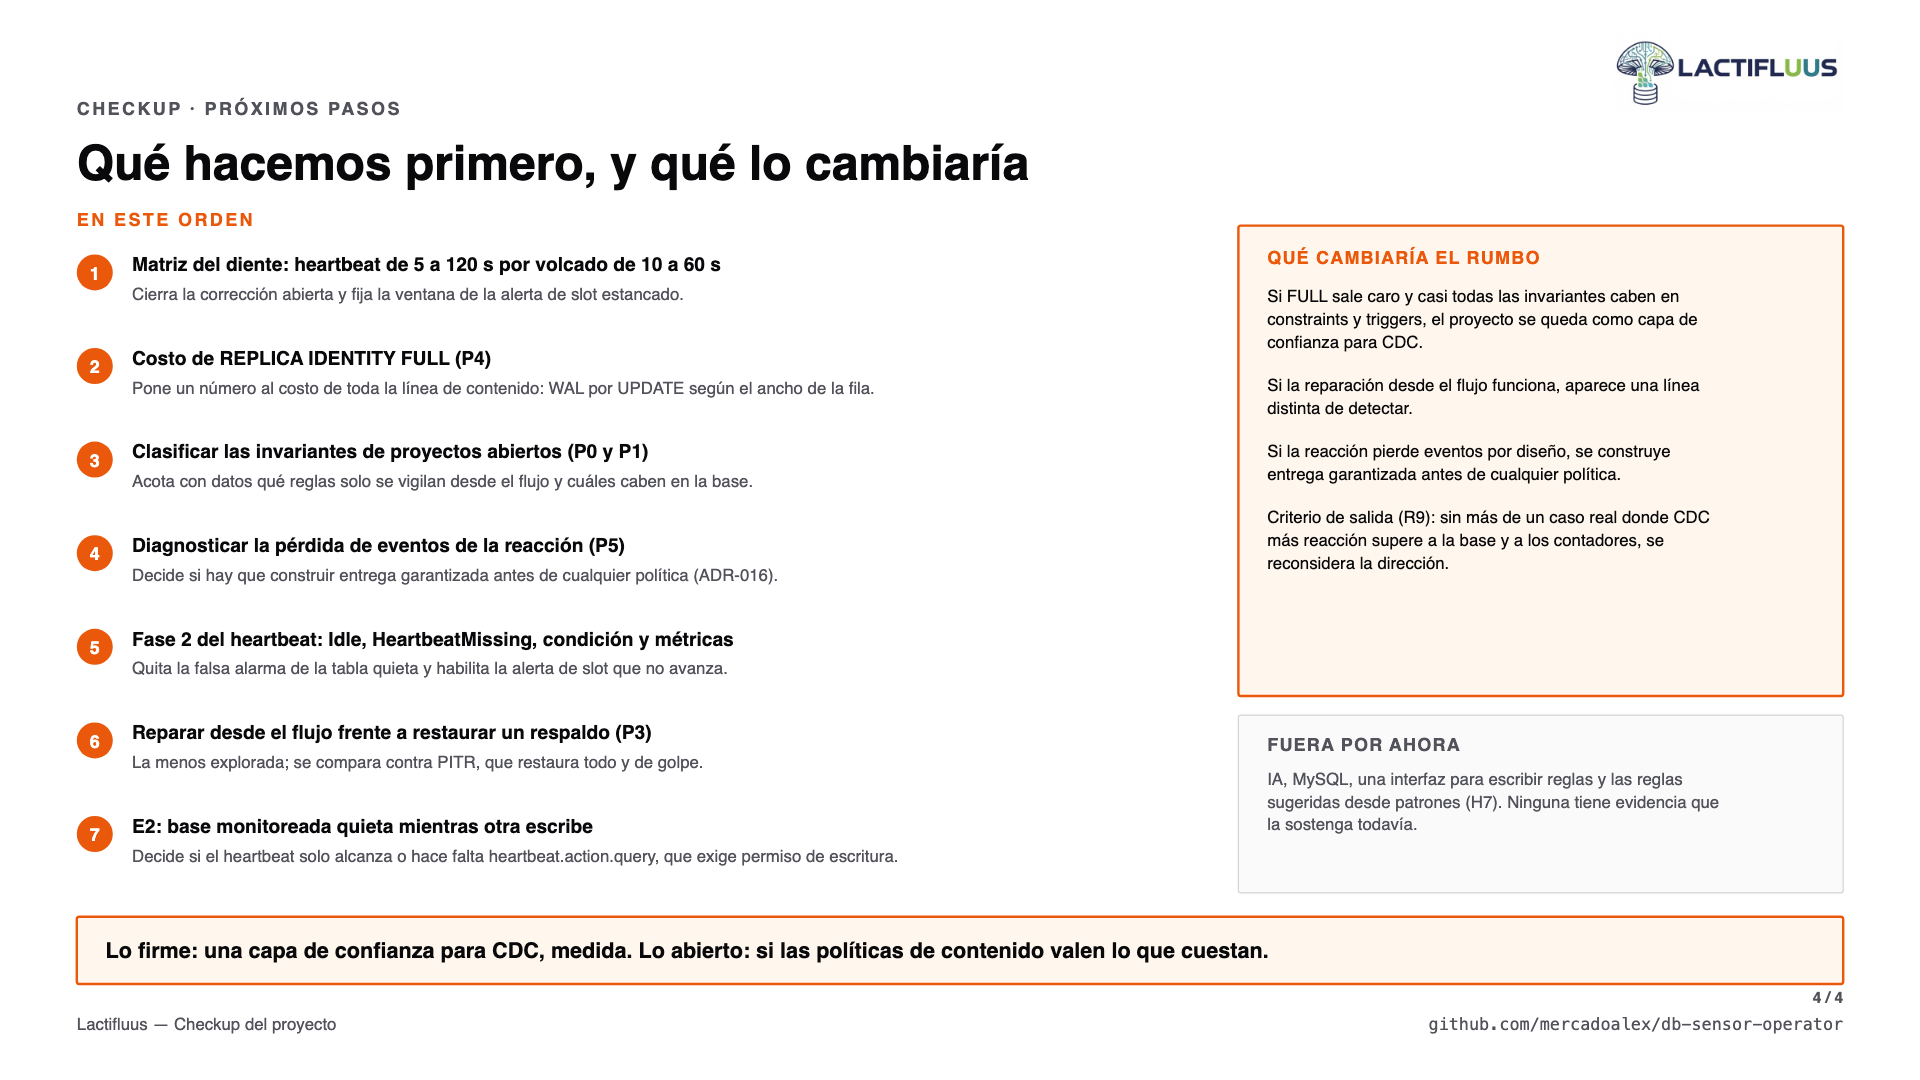
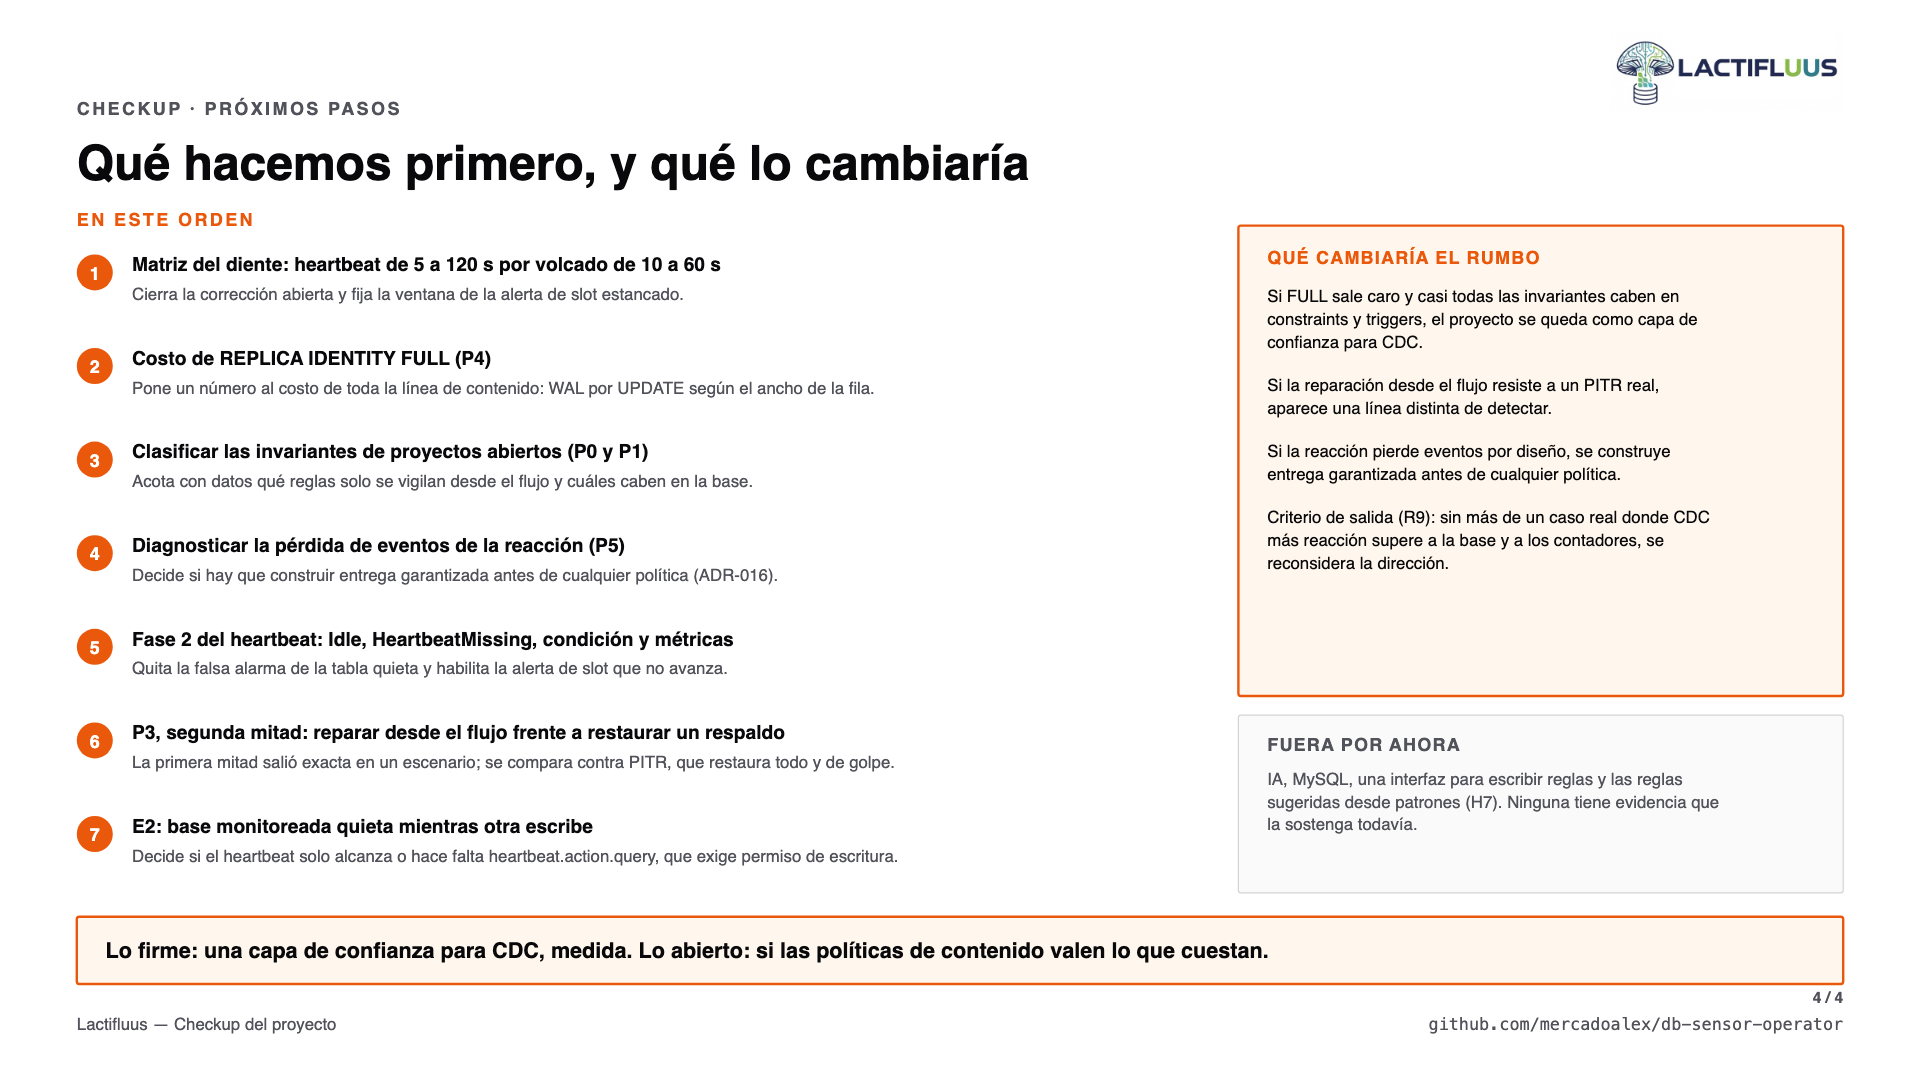
docs(checkup): reflect P3 first-half result in slides 3-4 and script

Changed region(s): [[0.0625, 0.6722, 0.4688, 0.7333], [0.6562, 0.3361, 0.875, 0.3972]]

diff --git a/docs/overview/checkup/guion.md b/docs/overview/checkup/guion.md
@@ -171,14 +171,20 @@ heartbeat de 10 s. Por qué el de 10 s es más largo no lo sabemos. Está en la 
 >
 > De ahí salen siete sub-preguntas. Cada una tiene una métrica, y el estado de hoy es poco alentador, y está bien así.
 >
-> Cuatro no tienen medición o no tienen número: qué clases aparecen en postmortems públicos, si se puede **reparar**
-> desde el flujo, cuánto cuesta ver el contenido y sobre qué workload se actúa. Tres tienen una medición débil: qué ve
-> cada fuente, cuántos commits malos pasan antes de que la reacción actúe (una medición, 0,72 s, para un Job) y cuánto
-> falla la propia reacción, donde perdimos el evento 2 de 2 veces al reemplazar el Sensor.
+> Tres no tienen medición: qué clases aparecen en postmortems públicos, cuánto cuesta ver el contenido y sobre qué
+> workload se actúa. Tres tienen una medición débil: qué ve cada fuente, cuántos commits malos pasan antes de que la
+> reacción actúe (una medición, 0,72 s, para un Job) y cuánto falla la propia reacción, donde perdimos el evento 2 de 2
+> veces al reemplazar el Sensor. Y una está a medias: la reparación.
 >
-> Quiero detenerme en la reparación. Es la menos explorada, y es donde la comparación es más interesante: el respaldo
-> con restauración a un punto en el tiempo restaura todo y de golpe. Si el flujo de cambios guarda el valor anterior de
-> cada fila, quizá se podría reparar solo lo afectado. No lo sabemos.
+> Quiero detenerme en la reparación. El respaldo con restauración a un punto en el tiempo restaura todo y de golpe. Si
+> el flujo de cambios guarda el valor anterior de cada fila, quizá se podría reparar solo lo afectado. La primera mitad
+> ya la probamos: una tabla de 5000 filas, un trabajo malo con 13 transacciones (actualizaciones, borrados e inserciones
+> basura) mezclado con escrituras buenas. Reparamos desde el flujo y el resultado quedó idéntico al esperado, con 0
+> filas distintas, en tres corridas. Eso es lo medido, en un escenario.
+>
+> Tiene tres condiciones. Una, la tabla necesita `REPLICA IDENTITY FULL`. Dos, hace falta un almacén durable de
+> eventos, y el operador hoy no guarda ninguno. Tres, los identificadores de las transacciones malas se los dimos
+> nosotros. Y falta lo principal: no lo hemos comparado contra un respaldo real con PITR.
 >
 > Y la caja de abajo. Hay una pregunta que no se responde en el laboratorio: si alguien necesita esto. Sigue abierta, y
 > tenemos un criterio de salida escrito desde antes: si no aparece más de un caso real donde CDC más reacción supere a
@@ -220,11 +226,11 @@ heartbeat de 10 s. Por qué el de 10 s es más largo no lo sabemos. Está en la 
 > **Quinto, la fase 2 del heartbeat.** Que el sensor use los latidos para distinguir una tabla quieta de un conector
 > estancado. Quita la falsa alarma que medimos y habilita la alerta de slot que no avanza.
 >
-> **Sexto, la reparación desde el flujo.** La pregunta menos explorada. **Séptimo**, el caso de una base monitoreada quieta
+> **Sexto, la segunda mitad de la reparación.** La primera salió exacta en un escenario; falta compararla con un PITR real. **Séptimo**, el caso de una base monitoreada quieta
 > mientras otra escribe, donde quizá el heartbeat solo no alcance.
 >
 > A la derecha pongo qué cambiaría el rumbo. Si `FULL` sale caro y casi todas las invariantes caben en la base, el
-> proyecto se queda como capa de confianza para CDC. Si la reparación funciona, aparece una línea distinta de detectar.
+> proyecto se queda como capa de confianza para CDC. Si la reparación resiste la comparación con un respaldo real, aparece una línea distinta de detectar.
 > Si la reacción pierde eventos por diseño, se construye entrega garantizada antes de cualquier política. Y el criterio
 > de salida que ya mencioné.
 >
@@ -265,8 +271,7 @@ heartbeat de 10 s. Por qué el de 10 s es más largo no lo sabemos. Está en la 
    diagnóstico del servidor. No comprobamos si un proveedor deja usar el ajuste de replicación, ni la red.
 
 6. **¿Cuánto cuesta?**
-   Hay un dato y un vacío. Dato: la cadena con Argo Events usa ocho pods. Vacío: el costo en WAL de `FULL` y el almacenamiento
-   para reparar no están medidos. Es el paso 2.
+   Hay un dato y un vacío. Dato: la cadena con Argo Events usa ocho pods. Vacío: el costo en WAL de `FULL` no está medido. Un dato de la reparación: unos 12 KB por evento para una fila de 6,4 KB, porque `FULL` lleva la fila dos veces. Es el paso 2.
 
 7. **¿Cuándo dejamos de intentarlo?**
    El criterio de salida está escrito: sin más de un caso real donde CDC más reacción supere a la prevención en la base y a
@@ -285,6 +290,11 @@ heartbeat de 10 s. Por qué el de 10 s es más largo no lo sabemos. Está en la 
     Hoy es una capa de confianza construida y medida, con una hipótesis de producto encima que no está validada. No conviene
     llamarla producto de políticas todavía.
 
+11. **¿Se puede reparar automáticamente?**
+    No todavía. En un escenario, reparar desde el flujo dejó 0 filas distintas del esperado en tres corridas, pero los
+    identificadores de las transacciones malas se los dimos nosotros, hace falta `REPLICA IDENTITY FULL` y un almacén
+    durable de eventos que el operador no tiene. Tampoco lo comparamos con un PITR real.
+
 ---
 
 ## Lo que conviene no decir
@@ -294,6 +304,8 @@ heartbeat de 10 s. Por qué el de 10 s es más largo no lo sabemos. Está en la 
 - "Reemplaza a los triggers". Con `ENABLE ALWAYS` la base se protege sola.
 - "Resolvimos la atribución". Existe un camino caro y condicional.
 - "El heartbeat lo arregla todo". Acota el slot; no arregla al consumidor lento ni la falsa alarma de la tabla quieta (fase 2).
+- "El flujo repara mejor que un respaldo". Aún no se comparó contra uno.
+- "La reparación es automática". Necesita la lista de transacciones malas.
 - Cualquier número de producción. No hay ninguno.
 
 ---
@@ -311,6 +323,7 @@ heartbeat de 10 s. Por qué el de 10 s es más largo no lo sabemos. Está en la 
 | Slot que crece, diagnóstico sano | `bench/experiments/backpressure/RESULTS.md` |
 | Heartbeat | `bench/experiments/heartbeat/RESULTS.md` y `docs/adr/ADR-018-heartbeat.md` |
 | Tabla quieta | `bench/experiments/quiet-table/RESULTS.md` |
+| Reparación desde el flujo (primera mitad) | `bench/experiments/repair-from-stream/RESULTS.md` |
 | Resumen consolidado | `bench/experiments/FINDINGS.md` |
 | Requisitos de un consumidor con estado | `docs/adr/ADR-016-stateful-stream-consumer-requirements.md` |
 
